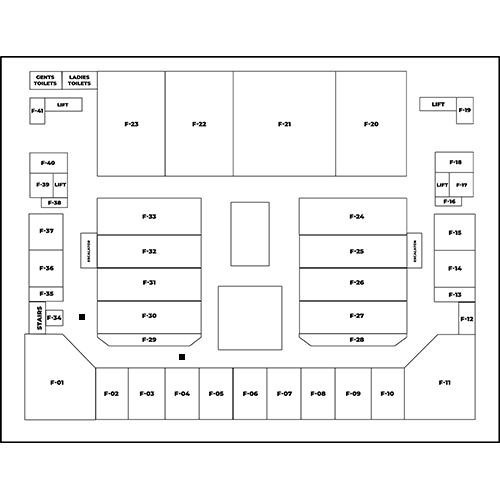
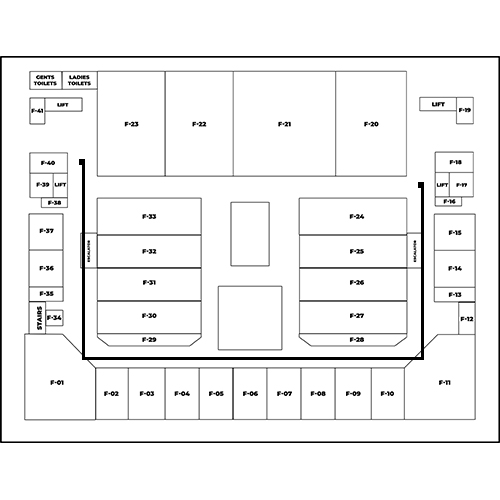
Path Drawn on Same Floor

Changed region(s): [[0.15, 0.3, 0.87, 0.72]]

diff --git a/fyp.py b/fyp.py
@@ -58,11 +58,11 @@ def data(ShopNo):
         addressIndex = GroundShop.index(str(ShopNo))
         print(addressIndex)
         pixelValue = GroundPixels[addressIndex]
-        print(pixelValue)
         swap = pixelValue[0]
         pixelValue[0] = pixelValue [1]
         pixelValue[1] = swap
         MarkCurrLoc(pixelValue)
+        print("Pixel Value: " + str(pixelValue))
         cv2.imwrite("Floor-Copy.png", img)
     ##change before
         with open("Floor-Copy.png", 'rb') as bites:
@@ -80,6 +80,7 @@ def data(ShopNo):
         pixelValue[0] = pixelValue [1]
         pixelValue[1] = swap
         MarkCurrLoc(pixelValue)
+        print("Pixel Value: " + str(pixelValue))
         cv2.imwrite("Floor-Copy.png", img)
         with open("Floor-Copy.png", 'rb') as bites:
             return send_file(io.BytesIO(bites.read()),attachment_filename='Floor.jpg',
@@ -88,43 +89,83 @@ def data(ShopNo):
 @app.route('/from/<loc>/to/<dest>')
 def Path(loc,dest):
 
+    # Array in which all pixels of path will be stored
+    path =[]
+
     # Ground Floor Shop Array
-    GroundShop = ['G-01A','G-01','G-02','G-03','G-04','G-05','G-06','G-07','G-08A','G-08','G-09','G-10','G-11','G-11A','G-12','G-13','G-15','G-16',
-    'G-17','G-18','G-19','G-20','G-21','G-22','G-23','G-24','G-25','G-26','G-27','G-28','G-29','G-30','G-31','G-33','G-34','G-35','G-36'
-    ,'G-37','G-38','G-39','G-40','G-41','G-42','G-43']
+    GroundShop = ['G-35','G-36','G-33','G-37','G-38','G-32','G-39','G-31','G-40','G-30','G-29','G-28','G-27','G-01','G-02','G-26',
+    'G-03','G-25','G-04','G-05','G-24','G-06','G-23','G-07','G-08A','G-09','G-11A','G-11','G-12','G-22','G-13','G-21','G-14','G-20','G-19',
+    'G-15','G-18','G-17']
 
     # Ground Floor Shop Pixels Array
-    GroundPixels = [[52,354],[82,354],[115,354],[148,354],[188,354],[308,354],[350,354],[386,354],[422,354],[454,354],[429,316],[464,354],[429,266],[429,293],[429,240],[429,202],[429,161],[446,120],
-    [429,131],[429,147],[429,164],[429,181],[429,198],[429,218],[380,354],[328,354],[174,354],[122,354],[75,318],[75,293,],[75,264],[75,233],[75,202],[75,162],[55,120],[75,132],[75,147],
-    [75,164],[75,183],[75,198],[75,219],[115,282],[167,282],[250,212]]
+    GroundPixels = [[132,75],[147,75],[162,75],[164,75],[183,75],[188,75],[198,75],[202,75],[219,75],[233,75],[264,75],[293,75],[318,75],[354,75],[354,115],[354,122],
+    [354,148],[354,174],[354,188],[354,308],[354,328],[354,350],[354,380],[354,386],[354,429],[316,429],[293,429],[266,429],[240,429],[218,429],[202,429],[198,429],[189,429],[181,429],[164,429],
+    [161,429],[147,429],[131,429]]
     
      # First Floor Shop Array
-    FirstShop = ['F-01','F-02','F-03','F-04','F-05','F-06','F-07','F-08','F-09','F-10','F-11','F-12','F-13','F-14','F-15','F-16'
-    ,'F-18','F-19','F-20','F-21','F-22','F-23','F-24','F-25','F-26','F-27','F-28','F-29','F-30','F-31','F-32','F-33','F-34','F-35','F-36'
-    ,'F-37','F-38','F-40','F-41']
+    FirstShop = ['F-40','F-39','F-38','F-37','F-32','F-36','F-31','F-35','F-30','F-34','F-29','F-01','F-02','F-03','F-04','F-05','F-06','F-07',
+    'F-08','F-09','F-28','F-10','F-11','F-12','F-27','F-13','F-26','F-14','F-25','F-15','F-24','F-16','F-17','F-18','F-20','F-21','F-22','F-23']
 
     # First Floor Shop Pixel Array
-    FirstPixels = [[82,357],[112,357],[148,357],[182,357],[217,357],[248,357],[283,357],[317,357],[352,357],[386,357],[421,357],[421,318],[421,294],[421,267],[421,234],[421,201],
-    [421,162],[448,120],[371,187],[284,187],[200,187],[132,187],[421,215],[421,250],[421,282],[421,316],[356,357],[146,357],[82,313],[82,283],[82,252],[82,218],[82,317],[82,293],[82,268],
-    [82,230],[82,201],[82,162],[55,120]]
+    FirstPixels = [[162,82],[182,82],[201,82],[230,82],[252,82],[268,82],[283,82],[293,82],[313,82],[317,82],[357,82],[357,112],[357,146],[357,148],[357,182],[357,217],[357,248],[357,283],
+    [357,317],[357,312],[357,356],[357,386],[357,421],[318,421],[316,421],[294,421],[282,421],[267,421],[250,421],[234,421],[215,421],[201,421],[185,421],[162,421],[187,371],[187,284],[187,200],[187,132]]
 
+    # Mark the Location and Destination Shop
     def MarkCurrLoc(pixelValue):
+            for x in range(pixelValue[0],pixelValue[0]+3):
+                for y in range(pixelValue[1],pixelValue[1]+3):
+                    img[x,y]=0
+
+            for x in range(pixelValue[0]-3,pixelValue[0]):
+                for y in range(pixelValue[1],pixelValue[1]+3):
+                    img[x,y]=0
+
+            for x in range(pixelValue[0]-3,pixelValue[0]):
+                for y in range(pixelValue[1]-3,pixelValue[1]):
+                    img[x,y]=0
+
+            for x in range(pixelValue[0],pixelValue[0]+3):
+                for y in range(pixelValue[1]-3,pixelValue[1]):
+                    img[x,y]=0
+
+    # Create Path from Pixels Stored in Path Array
+    def MarkLine(point1,point2):
+        if (point1[0]==point2[0]):
+            for y in range(point2[1],point1[1]+3):
+                for x in range(point1[0],point1[0]+3):
+                    img[x,y]=0
+                    
+            if (point1[1]<point2[1]):
+                for y in range(point1[1],point2[1]+3):
+                    for x in range(point1[0],point1[0]+3):
+                        img[x,y]=0
+        
+    
+        if (point1[1]==point2[1]):
+            if (point1[0]<point2[0]):
+                for x in range(point1[0],point2[0]):
+                    for y in range(point1[1],point1[1]+3):
+                        img[x,y]=0
+
+        if (point1[0]>point2[0]):
+            for x in range(point2[0],point1[0]):
+                for y in range(point1[1],point1[1]+3):
+                    img[x,y]=0
+
+    # Store Path Pixels in Array
+    def CreatePath(point1,point2,RoomPixel):
+        if (point1<point2):
+            for i in range(point1,point2+1):
+                path.append(RoomPixel[i])
+
+        if (point1>point2):
+            for i in range(point2,point1+1):
+                path.append(RoomPixel[i])
             
-            for x in range(pixelValue[0],pixelValue[0]+3):
-                for y in range(pixelValue[1],pixelValue[1]+3):
-                    img[x,y]=0
+        for i in range(len(path)):
+            if(i!=len(path)-1):
+                MarkLine(path[i],path[i+1])
 
-            for x in range(pixelValue[0]-3,pixelValue[0]):
-                for y in range(pixelValue[1],pixelValue[1]+3):
-                    img[x,y]=0
-
-            for x in range(pixelValue[0]-3,pixelValue[0]):
-                for y in range(pixelValue[1]-3,pixelValue[1]):
-                    img[x,y]=0
-
-            for x in range(pixelValue[0],pixelValue[0]+3):
-                for y in range(pixelValue[1]-3,pixelValue[1]):
-                    img[x,y]=0
 
     if (str(loc[0]) == "G") and (str(dest)[0] == "G"):
         img = cv2.imread("GFloor.png")
@@ -132,14 +173,9 @@ def Path(loc,dest):
         DesIndex = GroundShop.index(str(dest))
         LocPixel = GroundPixels[LocIndex]
         DesPixel = GroundPixels[DesIndex]
-        swap = LocPixel[0]
-        LocPixel[0] = LocPixel [1]
-        LocPixel[1] = swap
-        swap1 = DesPixel[0]
-        DesPixel[0] = DesPixel [1]
-        DesPixel[1] = swap1
         MarkCurrLoc(LocPixel)
         MarkCurrLoc(DesPixel)
+        CreatePath(LocIndex,DesIndex,GroundPixels)
         cv2.imwrite("Floor-Copy.png",img)
         with open("Floor-Copy.png","rb") as bites:
             return send_file(io.BytesIO(bites.read()),attachment_filename = "Floor.jpg",
@@ -151,18 +187,20 @@ def Path(loc,dest):
         DesIndex = FirstShop.index(str(dest))
         LocPixel = FirstPixels[LocIndex]
         DesPixel = FirstPixels[DesIndex]
-        swap = LocPixel[0]
-        LocPixel[0] = LocPixel [1]
-        LocPixel[1] = swap
-        swap1 = DesPixel[0]
-        DesPixel[0] = DesPixel [1]
-        DesPixel[1] = swap1
         MarkCurrLoc(LocPixel)
         MarkCurrLoc(DesPixel)
+        CreatePath(LocIndex,DesIndex,FirstPixels)
         cv2.imwrite("Floor-Copy.png",img)
         with open("Floor-Copy.png","rb") as bites:
             return send_file(io.BytesIO(bites.read()),attachment_filename = "Floor.jpg",
             mimetype='image/jpg')
 
+    if (str(loc[0]) == 'F') and (str(dest)[0] == "G"):
+        img = cv2.imread("FFloor.png")
+        LocIndex = FirstShop.index(str(loc))
+        DesIndex = FirstShop.index(str(dest))
+        LocPixel = FirstPixels[LocIndex]
+        DesPixel = FirstPixels[DesIndex]
+        MarkCurrLoc(LocPixel)
 
 app.run(host='0.0.0.0',port=3000)
